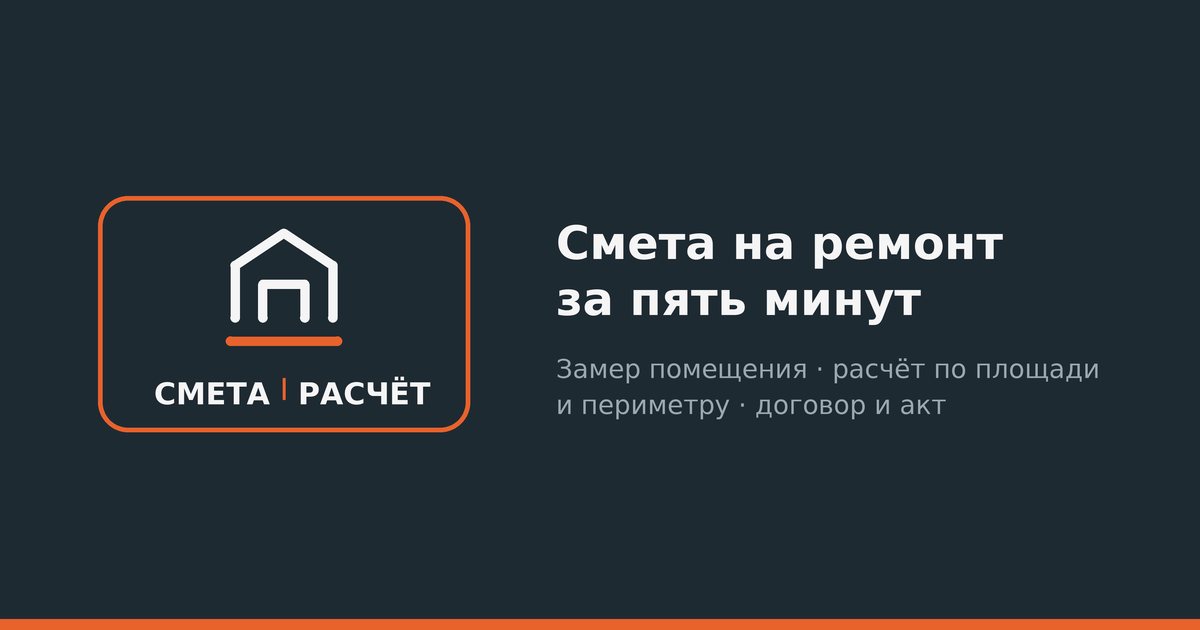
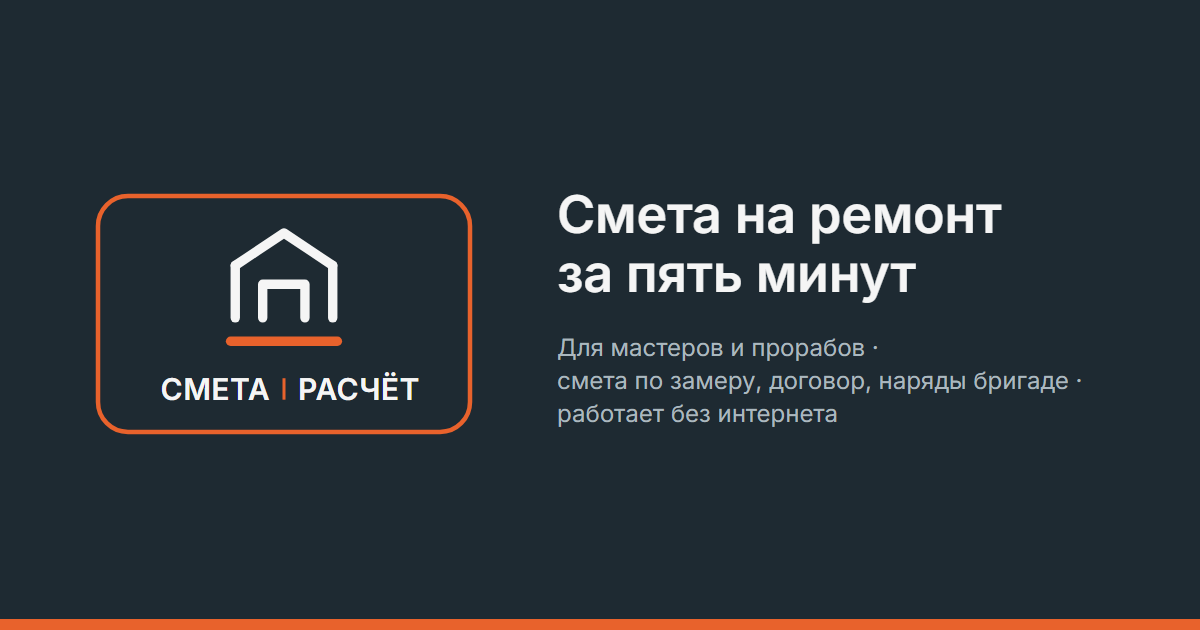
Баннер для пересылки: новый текст, теги приведены в порядок

diff --git a/index.html b/index.html
@@ -9,25 +9,25 @@
      Chrome на Android его там не видит и отказывается устанавливать
      приложение, предлагая только ярлык (он и открывался вкладкой).
      Safari на iPhone читает apple-теги откуда угодно, поэтому там работало. -->
-<meta name="description" content="Смета на ремонт за пять минут: замер помещения, расчёт по площади и периметру, договор и акт. Для мастеров, прорабов и отделочников. Работает без интернета.">
+<meta name="description" content="Смета на ремонт за пять минут: замер помещения, расчёт по площади и периметру, договор и акт, наряды бригаде. Для мастеров, прорабов и отделочников. Работает без интернета.">
 <link rel="canonical" href="https://smetaraschet.ru/">
 
 <!-- Как ссылка выглядит, когда её пересылают в мессенджере -->
 <meta property="og:type" content="website">
 <meta property="og:site_name" content="СМЕТА | РАСЧЁТ">
-<meta property="og:title" content="СМЕТА — расчёт ремонтных работ">
-<meta property="og:description" content="Замер помещения, расчёт по площади и периметру, готовая смета, договор и акт. Работает без интернета.">
+<meta property="og:title" content="СМЕТА | РАСЧЁТ — смета на ремонт за пять минут">
+<meta property="og:description" content="Для мастеров и прорабов: смета по замеру, договор и акт, наряды бригаде и расчёт с мастерами. Работает без интернета.">
 <meta property="og:url" content="https://smetaraschet.ru/">
-<meta property="og:image" content="https://smetaraschet.ru/og-image.png">
+<meta property="og:image" content="https://smetaraschet.ru/og-image.png?v=2026-09-04">
 <meta property="og:image:width" content="1200">
 <meta property="og:image:height" content="630">
 <meta property="og:image:type" content="image/png">
 <meta property="og:image:alt" content="СМЕТА | РАСЧЁТ — смета на ремонт за пять минут">
 <meta property="og:locale" content="ru_RU">
 <meta name="twitter:card" content="summary_large_image">
-<meta name="twitter:title" content="СМЕТА — расчёт ремонтных работ">
-<meta name="twitter:description" content="Замер помещения, расчёт по площади и периметру, готовая смета, договор и акт.">
-<meta name="twitter:image" content="https://smetaraschet.ru/og-image.png">
+<meta name="twitter:title" content="СМЕТА | РАСЧЁТ — смета на ремонт за пять минут">
+<meta name="twitter:description" content="Для мастеров и прорабов: смета по замеру, договор и акт, наряды бригаде и расчёт с мастерами. Работает без интернета.">
+<meta name="twitter:image" content="https://smetaraschet.ru/og-image.png?v=2026-09-04">
 
 <link rel="manifest" href="manifest.webmanifest">
 <meta name="theme-color" content="#1A2228">
@@ -3875,7 +3875,7 @@ const SUPABASE_ANON_KEY = 'eyJhbGciOiJIUzI1NiIsInR5cCI6IkpXVCJ9.eyJyb2xlIjoiYW5v
 // Поставьте true, когда настроите SMTP — форма вернётся, код на месте.
 const PASSWORD_LOGIN_ENABLED = true;
 
-const APP_BUILD = '2026-09-04-194';   // версия сборки — держать в паре с CACHE_VERSION в sw.js
+const APP_BUILD = '2026-09-04-195';   // версия сборки — держать в паре с CACHE_VERSION в sw.js
 
 // ============================================================
 //  ЛОКАЛЬНАЯ ПРОВЕРКА БЕЗ СЕРВЕРА

diff --git a/sw.js b/sw.js
@@ -7,7 +7,7 @@
    старый index.html из кэша.
    ============================================================ */
 
-const CACHE_VERSION = '2026-09-04-194';
+const CACHE_VERSION = '2026-09-04-195';
 
 const CACHE_APP = 'smeta-app-' + CACHE_VERSION;   // файлы приложения — своя версия у каждой сборки
 
